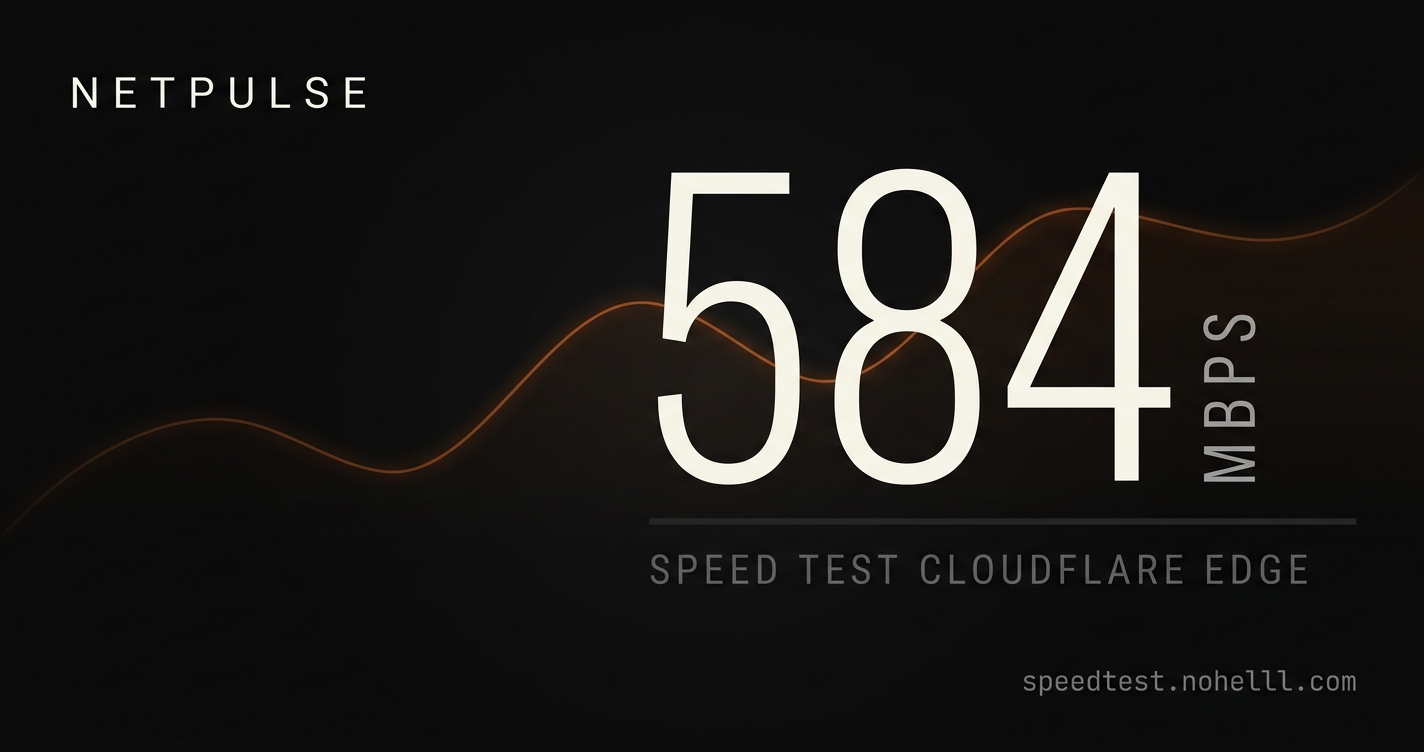
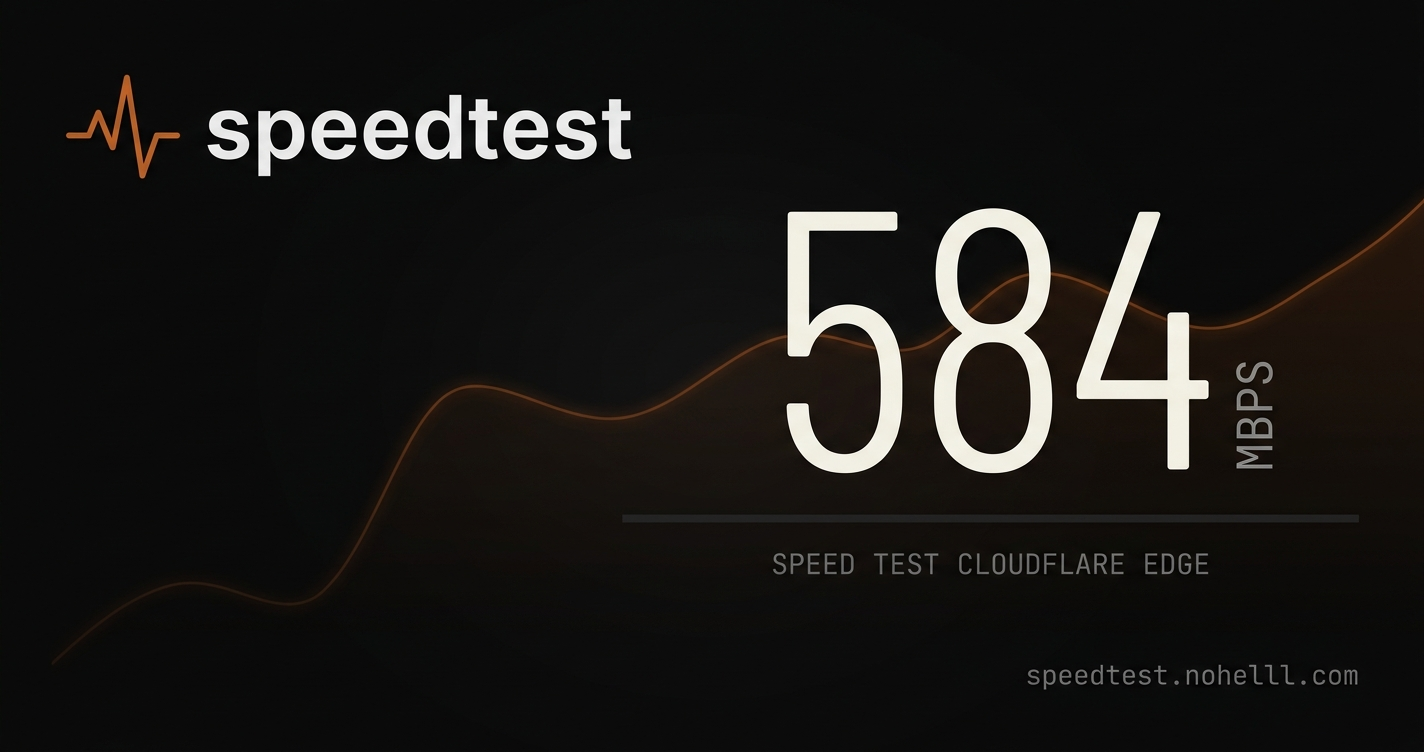
Rename product from Netpulse to speedtest
- Title, meta (OG, Twitter, alt), and README replaced "Netpulse" with
  "speedtest" lowercase.
- Header brand now renders the orange pulse-wave logo inline with
  plain "speedtest" text (no uppercase letter-spaced treatment).
- Modal title migrated to its own .modal-title class so it keeps the
  uppercase wordmark style the old .brand used to provide.
- Regenerated og-image.png (1200x630) with the new wave + speedtest
  wordmark in the top-left.
- localStorage key left as netpulse.history.v1 intentionally so
  existing visitors keep their history across the rename; documented
  in the README.

diff --git a/index.html b/index.html
@@ -3,7 +3,7 @@
 <head>
 <meta charset="UTF-8" />
 <meta name="viewport" content="width=device-width, initial-scale=1.0" />
-<title>Netpulse · Browser Speed Test</title>
+<title>speedtest · Browser Speed Test</title>
 <meta name="description" content="Instant browser speed test. Download, upload, latency, jitter, and bufferbloat measured against the Cloudflare edge network.">
 <meta name="author" content="nohell">
 <meta name="theme-color" content="#0b0b0b">
@@ -13,17 +13,17 @@
 <link rel="canonical" href="https://speedtest.nohelll.com/">
 
 <meta property="og:type" content="website">
-<meta property="og:site_name" content="Netpulse">
+<meta property="og:site_name" content="speedtest">
 <meta property="og:url" content="https://speedtest.nohelll.com/">
-<meta property="og:title" content="Netpulse · Browser Speed Test">
+<meta property="og:title" content="speedtest · Browser Speed Test">
 <meta property="og:description" content="Download, upload, latency, jitter, and bufferbloat against the Cloudflare edge.">
 <meta property="og:image" content="https://speedtest.nohelll.com/og-image.png">
 <meta property="og:image:width" content="1200">
 <meta property="og:image:height" content="630">
-<meta property="og:image:alt" content="Netpulse speed test dashboard showing 584 Mbps on a dark minimal interface">
+<meta property="og:image:alt" content="speedtest dashboard showing 584 Mbps on a dark minimal interface">
 
 <meta name="twitter:card" content="summary_large_image">
-<meta name="twitter:title" content="Netpulse · Browser Speed Test">
+<meta name="twitter:title" content="speedtest · Browser Speed Test">
 <meta name="twitter:description" content="Download, upload, latency, jitter, and bufferbloat against the Cloudflare edge.">
 <meta name="twitter:image" content="https://speedtest.nohelll.com/og-image.png">
 
@@ -89,10 +89,20 @@
     gap: 16px;
   }
   .brand {
-    font-size: 12px;
-    letter-spacing: 0.32em;
+    display: inline-flex;
+    align-items: center;
+    gap: 9px;
+    font-size: 15px;
+    letter-spacing: 0.01em;
     font-weight: 600;
     color: var(--ink);
+    text-transform: none;
+  }
+  .brand svg {
+    display: block;
+    width: 20px;
+    height: 20px;
+    flex-shrink: 0;
   }
   .actions {
     display: flex;
@@ -499,6 +509,13 @@
     padding: 18px 22px;
     border-bottom: 1px solid var(--rule);
   }
+  .modal-title {
+    font-size: 12px;
+    letter-spacing: 0.28em;
+    font-weight: 600;
+    color: var(--ink);
+    text-transform: uppercase;
+  }
   .history-head {
     display: grid;
     grid-template-columns: 1.4fr 1fr 1fr 0.8fr 0.6fr 1fr;
@@ -629,7 +646,14 @@
 <div class="wrap">
 
   <div class="topbar">
-    <div class="brand">NETPULSE</div>
+    <div class="brand">
+      <svg viewBox="0 0 32 32" aria-hidden="true">
+        <path d="M2 16 L8.5 16 L11 9 L14 23 L17 11 L20 21 L22.5 16 L30 16"
+              fill="none" stroke="#c5672b" stroke-width="2.5"
+              stroke-linecap="round" stroke-linejoin="round"/>
+      </svg>
+      <span>speedtest</span>
+    </div>
     <div class="actions">
       <button class="run-btn ghost icon-btn" id="historyBtn" aria-label="History" title="History">
         <svg viewBox="0 0 24 24" fill="none" stroke="currentColor" stroke-width="2" stroke-linecap="round" stroke-linejoin="round" aria-hidden="true">
@@ -742,7 +766,7 @@
 <div class="modal" id="historyModal" role="dialog" aria-modal="true" aria-labelledby="historyTitle">
   <div class="modal-inner">
     <div class="modal-head">
-      <div class="brand" id="historyTitle">TEST HISTORY</div>
+      <div class="modal-title" id="historyTitle">TEST HISTORY</div>
       <button class="run-btn" id="historyClose">CLOSE</button>
     </div>
     <div class="history-head">

diff --git a/README.md b/README.md
@@ -1,10 +1,10 @@
-# Netpulse
+# speedtest
 
 Browser-based internet speed test powered by [`@cloudflare/speedtest`](https://github.com/cloudflare/speedtest).
 
 Live: **[speedtest.nohelll.com](https://speedtest.nohelll.com)**
 
-![Netpulse OG preview](og-image.png)
+![speedtest OG preview](og-image.png)
 
 ## What it measures
 
@@ -14,6 +14,8 @@ Live: **[speedtest.nohelll.com](https://speedtest.nohelll.com)**
 - **Overall verdict** (Excellent / Good / Fair / Poor)
 
 Past runs are stored in the browser under `localStorage` key `netpulse.history.v1` (up to 100 entries). No backend, no tracking.
+
+> The storage key still carries the original `netpulse` prefix on purpose so existing browsers don't lose their history after the rename.
 
 ## Stack
 
